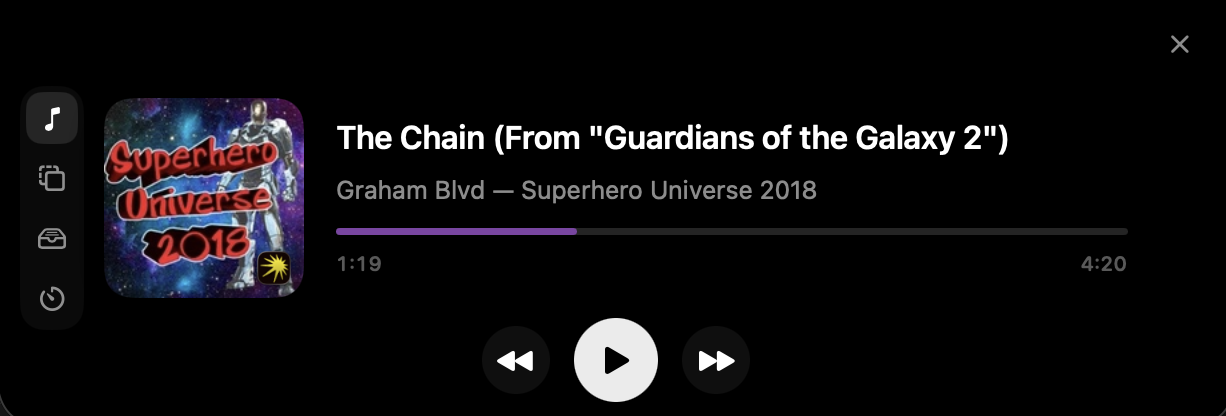
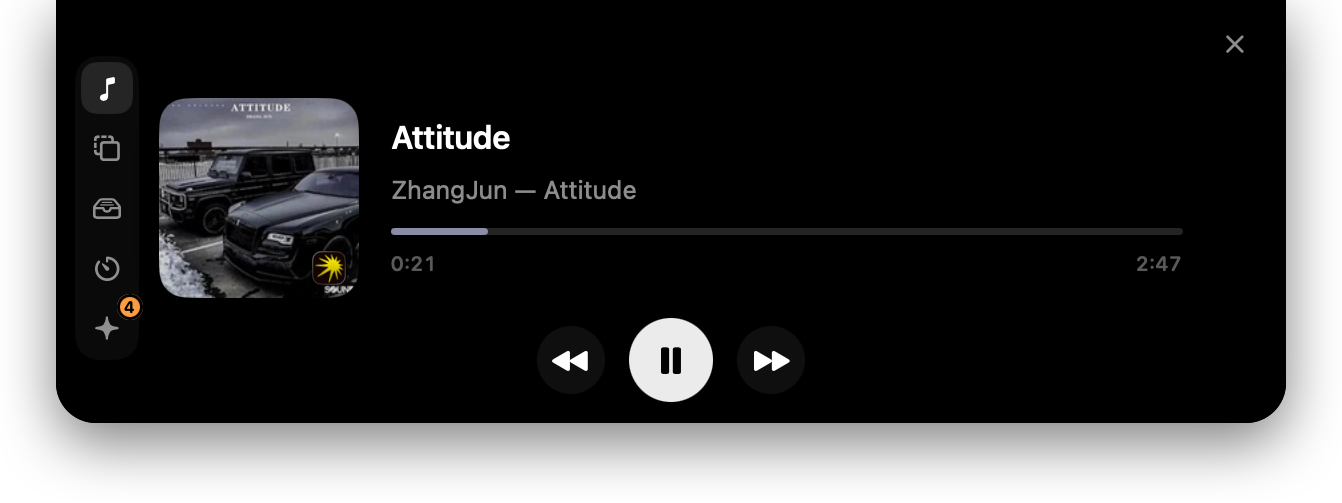
docs: refresh the screenshots and drop the boring.notch mention
Retake every pane in English with demo data, add one for the Agents
pane, and frame each panel on a transparent canvas with a soft shadow.

diff --git a/README.md b/README.md
@@ -26,9 +26,7 @@ five things that otherwise cost a window each — and stays out of the way the
 rest of the time: the closed strip only widens when something is actually
 happening, and the panel never steals focus from what you are typing in.
 
-Built for macOS 14+, tested on macOS 26.5. Inspired by
-[boring.notch](https://github.com/TheBoredTeam/boring.notch), written from
-scratch. English and Russian.
+Built for macOS 14+, tested on macOS 26.5. English and Russian.
 
 ## The panes
 
@@ -59,7 +57,7 @@ image full size, or delete a clip, from the card itself.
 
 ### ⌸ Shelf
 
-<img src="docs/images/shelf.png" alt="Shelf pane holding dropped files">
+<img src="docs/images/shelf.png" alt="Empty Shelf pane waiting for dropped files">
 
 Drop files anywhere on the panel and they park here — then drag them out on a
 different display, without holding the mouse button down the whole journey.
@@ -81,6 +79,8 @@ break never stops the focus round that is running.
 </table>
 
 ### ✦ Agents
+
+<img src="docs/images/agents.png" width="720" alt="Agents pane listing Claude Code sessions">
 
 Every Claude Code session on this Mac, the ones waiting on you first: a
 permission prompt, a question, a finished turn, a turn that stopped on an
